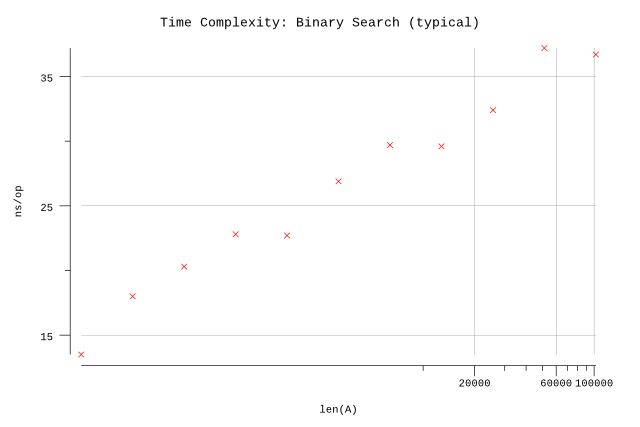
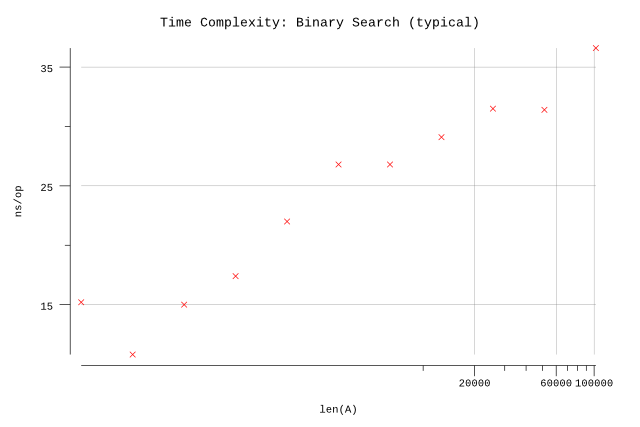
Fix: Update benchmarks to use sorted arrays
Fixes #32

diff --git a/algorithms/binary-search/binary-search_test.go b/algorithms/binary-search/binary-search_test.go
@@ -51,8 +51,11 @@ func benchmarkBinarySearch(i int, b *testing.B) {
 	var f bool
 
 	rand.Seed(time.Now().UnixNano())
-	A := rand.Perm(i)
-	x := A[rand.Intn(i)]
+	A := make([]int, i)
+	for k := range A {
+		A[k] = k
+	}
+	x := (len(A) - 1) / 2
 
 	b.ResetTimer()
 	for n := 0; n < b.N; n++ {

diff --git a/algorithms/recursive-binary-search/recursive-binary-search_test.go b/algorithms/recursive-binary-search/recursive-binary-search_test.go
@@ -55,9 +55,7 @@ func benchmarkRecursiveBinarySearch(i int, b *testing.B) {
 	for k := range A {
 		A[k] = k
 	}
-	x := A[(len(A)-1)/2]
-	//x := A[rand.Intn(i)]
-	//x := -1
+	x := -1
 
 	b.ResetTimer()
 	for n := 0; n < b.N; n++ {

diff --git a/algorithms/binary-search/binary-search.go b/algorithms/binary-search/binary-search.go
@@ -6,7 +6,7 @@ package binarysearch
 // not found in the array.
 func BinarySearch(A []int, x int) (int, bool) {
 
-	p, r := 1, len(A)-1
+	p, r := 0, len(A)-1
 
 	for p <= r {
 		q := (p + r) / 2

diff --git a/algorithms/binary-search/README.md b/algorithms/binary-search/README.md
@@ -37,17 +37,17 @@ $ go test -run=X -bench=. -benchmem
 goos: darwin
 goarch: amd64
 pkg: github.com/billglover/au/algorithms/binary-search
-BenchmarkBinarySearch_100-4             100000000               14.1 ns/op             0 B/op          0 allocs/op
-BenchmarkBinarySearch_200-4             100000000               17.0 ns/op             0 B/op          0 allocs/op
-BenchmarkBinarySearch_400-4             100000000               20.2 ns/op             0 B/op          0 allocs/op
-BenchmarkBinarySearch_800-4             50000000                21.3 ns/op             0 B/op          0 allocs/op
+BenchmarkBinarySearch_100-4             100000000               13.4 ns/op             0 B/op          0 allocs/op
+BenchmarkBinarySearch_200-4             100000000               15.6 ns/op             0 B/op          0 allocs/op
+BenchmarkBinarySearch_400-4             100000000               17.9 ns/op             0 B/op          0 allocs/op
+BenchmarkBinarySearch_800-4             50000000                20.3 ns/op             0 B/op          0 allocs/op
 BenchmarkBinarySearch_1600-4            50000000                22.7 ns/op             0 B/op          0 allocs/op
 BenchmarkBinarySearch_3200-4            50000000                25.0 ns/op             0 B/op          0 allocs/op
-BenchmarkBinarySearch_6400-4            50000000                27.2 ns/op             0 B/op          0 allocs/op
-BenchmarkBinarySearch_12800-4           50000000                29.8 ns/op             0 B/op          0 allocs/op
-BenchmarkBinarySearch_25600-4           50000000                32.1 ns/op             0 B/op          0 allocs/op
-BenchmarkBinarySearch_51200-4           50000000                34.4 ns/op             0 B/op          0 allocs/op
-BenchmarkBinarySearch_102400-4          50000000                36.8 ns/op             0 B/op          0 allocs/op
+BenchmarkBinarySearch_6400-4            50000000                27.4 ns/op             0 B/op          0 allocs/op
+BenchmarkBinarySearch_12800-4           50000000                29.6 ns/op             0 B/op          0 allocs/op
+BenchmarkBinarySearch_25600-4           50000000                32.4 ns/op             0 B/op          0 allocs/op
+BenchmarkBinarySearch_51200-4           50000000                34.6 ns/op             0 B/op          0 allocs/op
+BenchmarkBinarySearch_102400-4          30000000                36.8 ns/op             0 B/op          0 allocs/op
 PASS
 ok      github.com/billglover/au/algorithms/binary-search       16.996s
 ```
